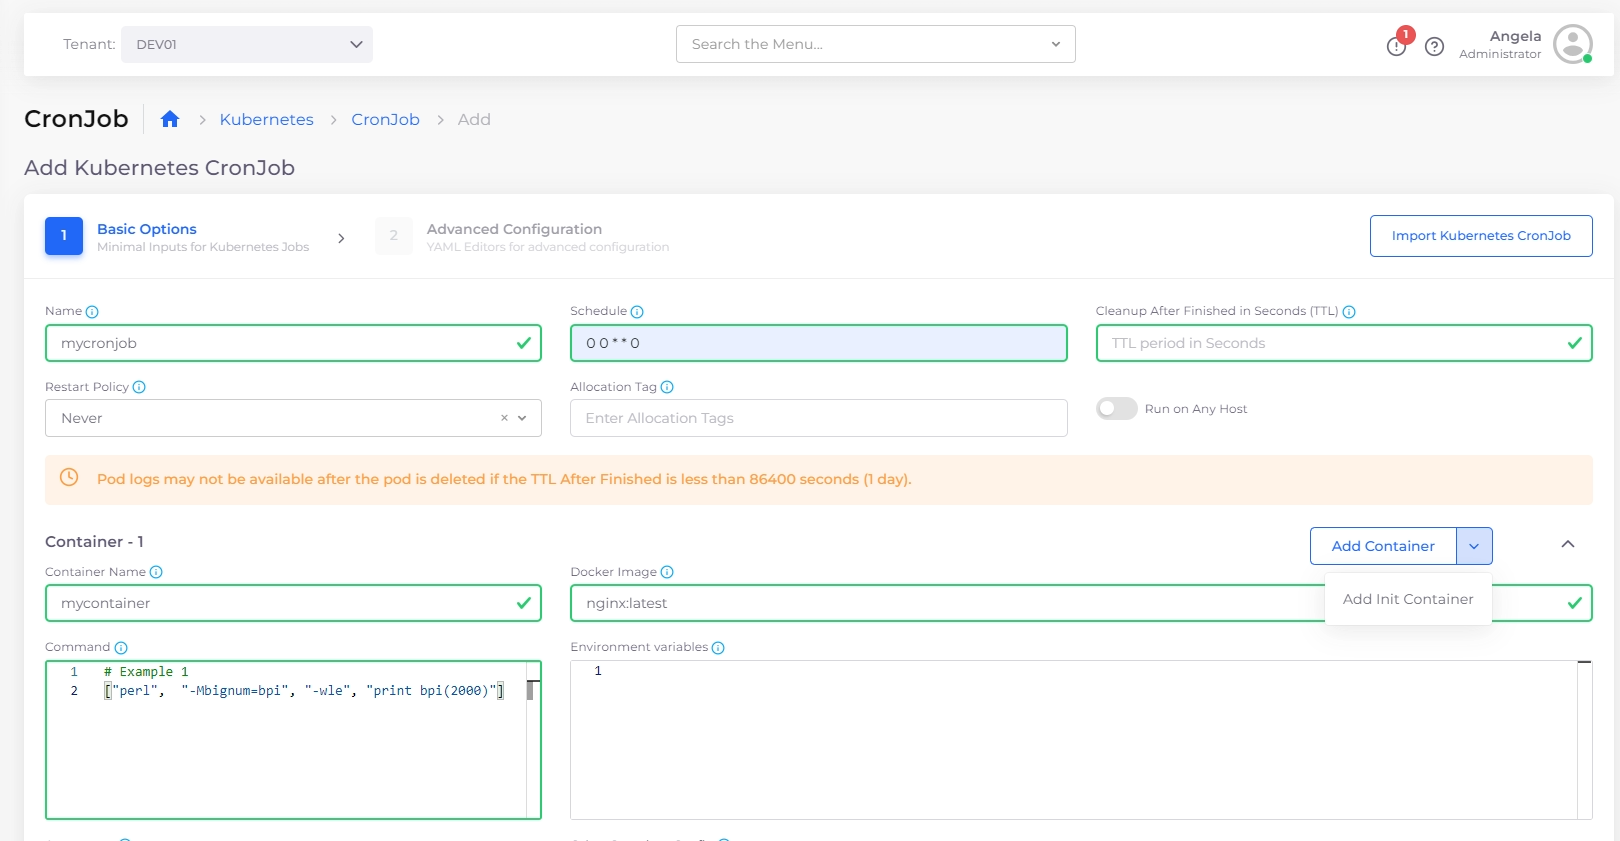
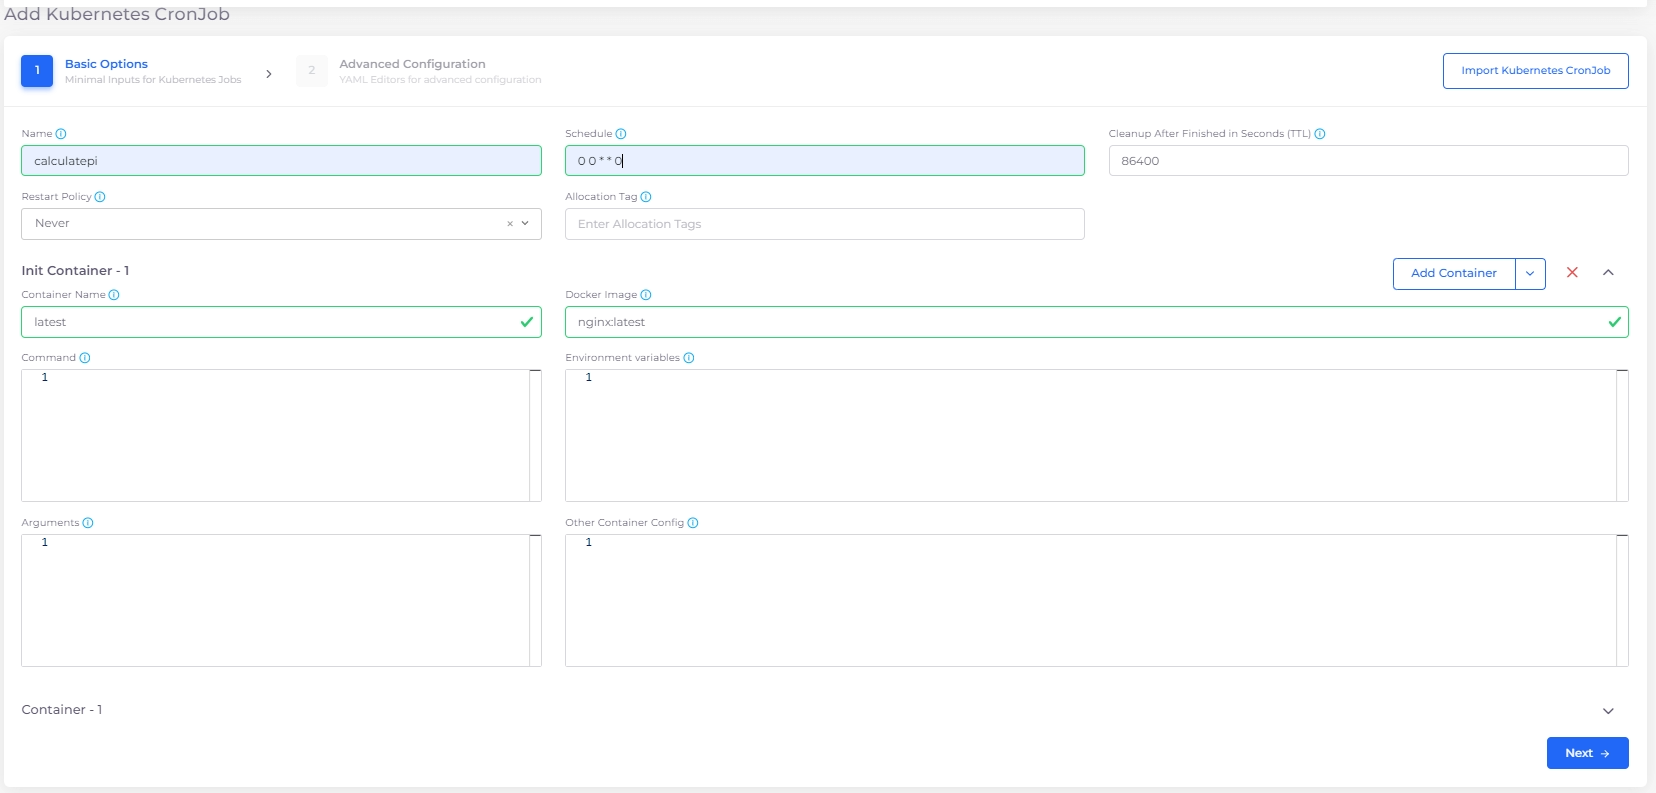
GITBOOK-744: DUPLO-13587 Improve content of K8s Jobs with Pi Compute commands

diff --git a/kubernetes/jobs.md b/kubernetes/jobs.md
@@ -24,32 +24,31 @@ You can also use a Job to run multiple Pods in [parallel](https://kubernetes.io/
 2. Navigate to **Kubernetes** -> **Job**.
 3. Click **Add**. The **Add Kubernetes Job** page displays.
 4. In the **Basic Options** step, specify the Kubernetes Job **Name**.
-5.  In the **Container - 1** area, specify the **Container Name** and associated **Docker Image**.\
+5. In the **Container - 1** area, specify the **Container Name** and associated **Docker Image**.
 
+<figure><img src="../.gitbook/assets/help me.png" alt=""><figcaption><p>The <strong>Add Kubernetes Job</strong> page</p></figcaption></figure>
 
-    <figure><img src="../.gitbook/assets/screenshot-nimbusweb.me-2024.02.13-21_30_16.png" alt=""><figcaption><p><strong>Add Kubernetes Job</strong> page.</p></figcaption></figure>
-6.  In the **Command** field, specify the command attributes for **Container - 1**. Click the Info Tip icon for examples. Select and **Copy** commands as needed.\
+6. In the **Command** field, specify the command attributes for **Container - 1**. Click the Info Tip icon for examples. Select and **Copy** commands as needed.
 
+<figure><img src="../.gitbook/assets/screenshot-nimbusweb.me-2024.02.13-21_36_00.png" alt=""><figcaption><p>The <strong>Add Kubernetes Job</strong> page with the <strong>Command</strong> info window open.<br></p></figcaption></figure>
 
-    <figure><img src="../.gitbook/assets/screenshot-nimbusweb.me-2024.02.13-21_36_00.png" alt=""><figcaption><p>The <strong>Add Kubernetes Job</strong> page with the <strong>Command</strong> info window.<br></p></figcaption></figure>
+<figure><img src="../.gitbook/assets/pi1 final if theres a god (1).png" alt=""><figcaption><p>The <strong>Add Kubernetes Job</strong> page with <strong>Container - 1</strong> details added.<br></p></figcaption></figure>
 
-    <figure><img src="../.gitbook/assets/screenshot-nimbusweb.me-2024.02.13-21_37_24.png" alt=""><figcaption><p>Completed <strong>Command</strong> field for <strong>Container - 1.</strong></p></figcaption></figure>
 7. To run the Job to completion, you must specify a Kubernetes [Init Container](https://kubernetes.io/docs/concepts/workloads/pods/init-containers/).  Click the **Add Container** <img src="../.gitbook/assets/chevron_Down_arrow.png" alt="" data-size="line">button and select the **Add Init Container** option. The **Init Container - 1** area displays.
 8.  In the **Init Container - 1** area, specify the **Container Name** and associated **Docker Image**.\
 
 
-    <figure><img src="../.gitbook/assets/init job.png" alt=""><figcaption><p><strong>Add Init Container</strong> option on <strong>Add Container</strong> button in <strong>Container - 1</strong> area.</p></figcaption></figure>
+    <figure><img src="../.gitbook/assets/newpi2.png" alt=""><figcaption><p>The <strong>Add Kubernetes Job</strong> page with <strong>Init Container</strong> added.</p></figcaption></figure>
 9. Click **Next** to open the **Advanced Configuration** step.
 10. In the **Other Spec Configuration** field, specify the Job spec (in YAML) for **Init Container - 1**. Click the Info Tip icon for examples. Select and **Copy** commands as needed.\
 
 
-    <figure><img src="../.gitbook/assets/screenshot-nimbusweb.me-2024.02.14-12_41_36.png" alt=""><figcaption><p>Info Tip examples for <strong>Other Spec Configuration</strong> field in <strong>Advanced Configuration</strong> step for <strong>Init Container - 1.</strong><br></p></figcaption></figure>
+    <figure><img src="../.gitbook/assets/screenshot-nimbusweb.me-2024.02.14-12_41_36.png" alt=""><figcaption><p>Info Tip examples for the <strong>Other Spec Configuration</strong> field<strong>.</strong><br></p></figcaption></figure>
 
-    <figure><img src="../.gitbook/assets/screenshot-nimbusweb.me-2024.02.14-12_55_12.png" alt=""><figcaption><p>Completed <strong>Other Spec Configuration</strong> field for <strong>Init Container - 1.</strong> </p></figcaption></figure>
-11. Click **Create**. The job is created and displayed on the **Job** page with a status of **Active**. \
+    <figure><img src="../.gitbook/assets/screenshot-nimbusweb.me-2024.02.14-12_55_12.png" alt=""><figcaption><p><strong>Add Kubernetes Job</strong> page with completed <strong>Other Spec Configuration</strong> field<strong>.</strong> </p></figcaption></figure>
+11. Click **Create**. The job is created and displayed on the **Job** page with a status of **Active**.&#x20;
 
-
-    <figure><img src="../.gitbook/assets/screenshot-nimbusweb.me-2024.02.14-13_02_21.png" alt=""><figcaption><p><strong>K8S Job</strong> tab displaying Kubernetes job <strong>MY-K8S-INVOICE-JOB</strong> with <strong>Active Status.</strong></p></figcaption></figure>
+<figure><img src="../.gitbook/assets/complete pi.png" alt=""><figcaption><p><strong>K8s Job</strong> tab showin<strong>g</strong> the Active <strong>CALCULATEPI</strong> Job.</p></figcaption></figure>
 
 ## Viewing a Kubernetes Job&#x20;
 
@@ -58,7 +57,7 @@ You can also use a Job to run multiple Pods in [parallel](https://kubernetes.io/
 
 You can also view details of a job by clicking the menu icon ( <img src="../.gitbook/assets/Kabab_three_Vertical_dots (5).png" alt="" data-size="line"> ) icon to the left of the job name and selecting **View**.
 
-<figure><img src="../.gitbook/assets/screenshot-nimbusweb.me-2024.02.14-13_04_25.png" alt=""><figcaption><p><strong>Overview and Details</strong> tabs for Kubernetes job <strong>MY-K8S-INVOICE-JOB.</strong></p></figcaption></figure>
+<figure><img src="../.gitbook/assets/screenshot-nimbusweb.me-2024.02.14-13_04_25.png" alt=""><figcaption><p><strong>Overview and Details</strong> tabs for a Kubernetes job<strong>.</strong></p></figcaption></figure>
 
 <figure><img src="../.gitbook/assets/view.png" alt=""><figcaption><p>Job option menu with <strong>View</strong> option highlighted.</p></figcaption></figure>
 

diff --git a/kubernetes/cronjobs.md b/kubernetes/cronjobs.md
@@ -18,32 +18,29 @@ See the Kubernetes documentation on [CronJobs](https://kubernetes.io/docs/concep
 4. In the **Schedule** field, specify the Cron Schedule in Cron Format. Click the Info Tip icon for examples. When specifying a **Schedule** in Cron Format, ensure you separate each value with a space. For example, `0 0 * * 0` is a valid Cron Format input; `00**0` is not. See the [Kubernetes documentation](https://kubernetes.io/docs/concepts/workloads/controllers/cron-jobs/#writing-a-cronjob-spec) for detailed information about Cron Format.
 5. In the **Container - 1** area, specify the **Container Name** and associated **Docker Image**.
 
-<figure><img src="../.gitbook/assets/cron1.png" alt=""><figcaption><p><strong>Add Kubernetes CronJob</strong> page</p></figcaption></figure>
+<figure><img src="../.gitbook/assets/cron 1.png" alt=""><figcaption><p>The <strong>Add Kubernetes CronJob</strong> page with <strong>Container Nam</strong>e and <strong>Docker image</strong> fields filled.</p></figcaption></figure>
 
-6.  In the **Command** field, specify the command attributes for **Container - 1**. Click the Info Tip icon for examples. Select and **Copy** commands as needed.\
+6. In the **Command** field, specify the command attributes for **Container - 1**. Click the Info Tip icon for examples. Select and **Copy** commands as needed.
 
+<figure><img src="../.gitbook/assets/cron retake.png" alt=""><figcaption><p>The <strong>Add Kubernetes CronJob</strong> page with the <strong>Command</strong> options window open.</p></figcaption></figure>
 
-    <figure><img src="../.gitbook/assets/cron2.png" alt=""><figcaption><p>Examples for <strong>Command</strong> field in <strong>Container - 1</strong> area of <strong>Add Kubernetes CronJob</strong> page.<br></p></figcaption></figure>
+<figure><img src="../.gitbook/assets/crom3.png" alt=""><figcaption><p>The <strong>Add Kubernetes CronJob</strong> page with the <strong>Command</strong> field for <strong>Container - 1</strong> filled<strong>.</strong></p></figcaption></figure>
 
-    <figure><img src="../.gitbook/assets/cron3.png" alt=""><figcaption><p>Completed <strong>Command</strong> field for <strong>Container - 1.</strong></p></figcaption></figure>
-7.  To run the CronJob to completion, you must specify a Kubernetes [Init Container](https://kubernetes.io/docs/concepts/workloads/pods/init-containers/).  Click the **Add Container** <img src="../.gitbook/assets/chevron_Down_arrow.png" alt="" data-size="line">button and select the **Add Init Container** option. The **Init Container - 1** area displays.\
+7. To run the CronJob to completion, you must specify a Kubernetes [Init Container](https://kubernetes.io/docs/concepts/workloads/pods/init-containers/).  Click the **Add Container** <img src="../.gitbook/assets/chevron_Down_arrow.png" alt="" data-size="line">button and select the **Add Init Container** option. The **Init Container - 1** area displays.
 
+<figure><img src="../.gitbook/assets/cron4.png" alt=""><figcaption><p><strong>Add Init Container</strong> area.</p></figcaption></figure>
 
-    <figure><img src="../.gitbook/assets/cron4.png" alt=""><figcaption><p><strong>Add Init Container</strong> option on <strong>Add Container</strong> button in <strong>Container - 1</strong> area.<br></p></figcaption></figure>
-
-    <figure><img src="../.gitbook/assets/cron5.png" alt=""><figcaption><p><strong>Init Container - 1</strong> area.</p></figcaption></figure>
 8. In the **Init Container - 1** area, specify the **Container Name** and associated **Docker Image**.
 9. Click **Next** to open the **Advanced Configuration** step.
 10. In the **Other Spec Configuration** field, specify the job spec (in YAML) for **Init Container - 1**. Click the Info Tip icon ( <img src="../.gitbook/assets/info_tip_black.png" alt="" data-size="line"> ) for examples. Select and **Copy** commands as needed
 
-<figure><img src="../.gitbook/assets/cron6 (1).png" alt=""><figcaption><p>Examples for <strong>Other Spec Configuration</strong> field in <strong>Advanced Configuration</strong> step for <strong>Init Container - 1.</strong></p></figcaption></figure>
+<figure><img src="../.gitbook/assets/cron6 (1).png" alt=""><figcaption><p>The <strong>Other Spec Configuration</strong> window on the <strong>Add Kubernetes CronJob, Advanced Configuration</strong> page<strong>.</strong></p></figcaption></figure>
 
-<figure><img src="../.gitbook/assets/cron7.png" alt=""><figcaption><p>Completed <strong>Other Spec Configuration</strong> field for <strong>Init Container - 1.</strong></p></figcaption></figure>
+<figure><img src="../.gitbook/assets/cron7.png" alt=""><figcaption><p>The <strong>Add Kubernetes CronJob</strong> page with the <strong>Other Spec Configuration</strong> field completed<strong>.</strong></p></figcaption></figure>
 
-8.  Click **Create**. The K8s CronJob is created and displayed on the **CronJob** page and will be run according to the schedule you specified. \
+11. Click **Create**. The K8s CronJob is created and displayed on the **CronJob** page and will be run according to the schedule you specified.&#x20;
 
-
-    <figure><img src="../.gitbook/assets/cron8.png" alt=""><figcaption><p><strong>K8s CronJob</strong> tab displaying Kubernetes Job <strong>MYCRONJOB.</strong></p></figcaption></figure>
+<figure><img src="../.gitbook/assets/cron final.png" alt=""><figcaption><p><strong>K8s CronJob</strong> tab displaying Kubernetes Job <strong>CALCULATEPI.</strong></p></figcaption></figure>
 
 ## Viewing a Kubernetes CronJob&#x20;
 
